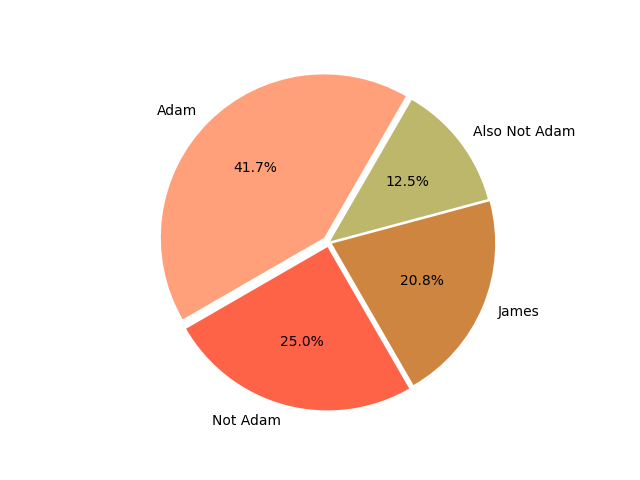
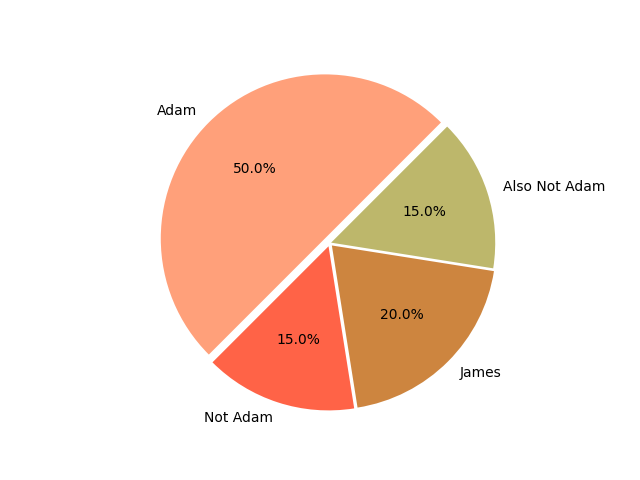
Made more changes

diff --git a/Graphics_Assignment.py b/Graphics_Assignment.py
@@ -1,11 +1,11 @@
 import matplotlib.pyplot as plot
 # set up your lists
-numlist = [10, 6, 5, 3]
+numlist = [10, 3, 4, 3]
 namelist = ['Adam', 'Not Adam', 'James', 'Also Not Adam']
 colorlist = ['lightsalmon', 'tomato', 'peru', 'darkkhaki' ]
-explodelist = [0.04, 0.03, 0.02, 0.01]
+explodelist = [0.04, 0.02, 0.02, 0.01]
 # make the pie chart
 plot.pie(numlist, labels=namelist, autopct='%.1f%%', colors=colorlist,
-    	explode = explodelist, startangle = 60)
+    	explode = explodelist, startangle = 45)
 plot.axis('equal')
 plot.savefig('piechart.png')
